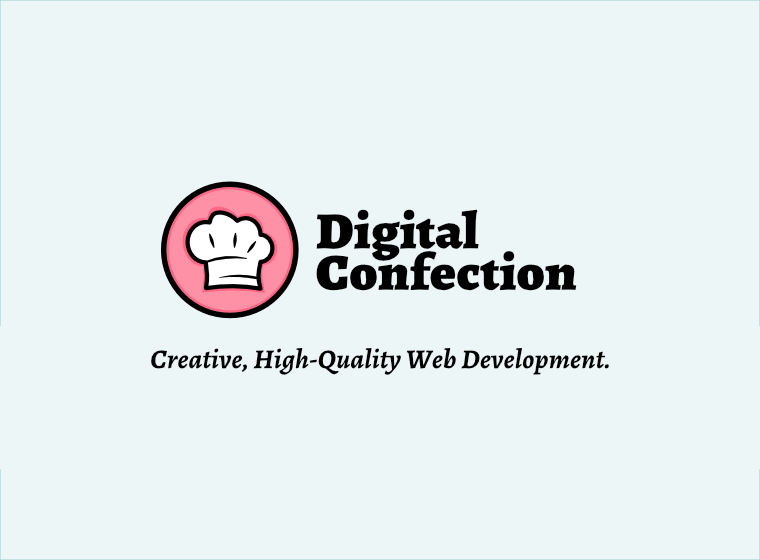
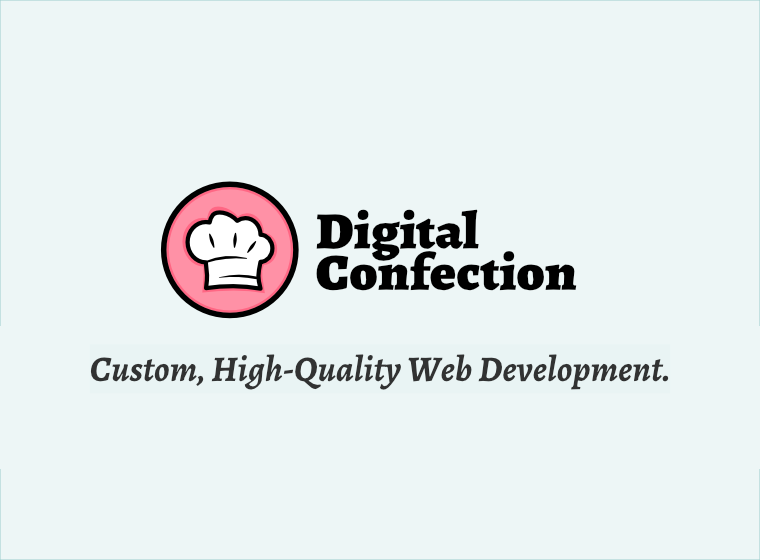
eco-style

Changed region(s): [[0.1211, 0.6071, 0.8776, 0.6982]]

diff --git a/_themes/dc/css/style.css b/_themes/dc/css/style.css
@@ -293,6 +293,22 @@ header .container {
   height: 30rem;
   margin: auto;
 }
+.doodle-me:hover:after {
+  font-family: "Font Awesome 5 Free";
+  font-weight: 400;
+  content: "";
+  position: relative;
+  display: block;
+  height: 40px;
+  width: 40px;
+  line-height: 40px;
+  text-align: center;
+  border-radius: 8px;
+  color: white;
+  margin: auto;
+  top: 18.5rem;
+  background-color: black;
+}
 @media screen and (max-width: 700px) {
   .doodle-me {
     height: 40vh;
@@ -543,7 +559,7 @@ footer .social-links a {
   font-size: large;
   font-weight: bold;
   cursor: pointer;
-  margin-top: -2rem;
+  margin-top: -2.5rem;
   float: right;
   position: relative;
   top: -1.2rem;
@@ -754,7 +770,7 @@ footer .social-links a {
   background-repeat: no-repeat;
   background-position: center;
   background-size: 100%;
-  width: 90%;
+  width: 85%;
   height: 38rem;
   margin: auto;
 }
@@ -796,7 +812,7 @@ footer .social-links a {
 }
 #clients p {
   margin: auto;
-  margin-bottom: 2rem;
+  margin-bottom: 3rem;
 }
 #clients .doodle-scribble {
   margin-top: 3rem;

diff --git a/_themes/dc/scss/style.scss b/_themes/dc/scss/style.scss
@@ -238,6 +238,27 @@ header {
   height: 30rem;
   margin: auto;
 
+  &:hover {
+    &:after {
+      font-family: "Font Awesome 5 Free";
+      font-weight: 400;
+      content: '\f0c1';
+      position: relative;
+      display: block;
+      height: 40px;
+      width: 40px;
+      line-height: 40px;
+      text-align: center;
+      border-radius: 8px;
+      color: white;
+      margin: auto;
+      top: 18.5rem;
+     
+
+      background-color: black;
+    }
+  }
+
   @media screen and (max-width: $bp-small){
     height: 40vh;
     margin-bottom: 2rem;
@@ -501,7 +522,7 @@ footer {
     font-size: large;
     font-weight: bold;
     cursor: pointer;
-    margin-top: -2rem;
+    margin-top: -2.5rem;
     float: right;
     position: relative;
     top: -1.2rem;

diff --git a/_themes/dc/scss/_home.scss b/_themes/dc/scss/_home.scss
@@ -116,7 +116,7 @@
 
 .doodle-cookies {
   @include image_block('../img/eco-cookie.svg');
-  width: 90%;
+  width: 85%;
   height: 38rem;
   margin: auto;
   @media screen and (max-width: 960px){
@@ -155,7 +155,7 @@
 
   p {
     margin: auto;
-    margin-bottom: 2rem;
+    margin-bottom: 3rem;
   }
 
   .doodle-scribble {

diff --git a/_themes/dc/templates/page--front.tpl.php b/_themes/dc/templates/page--front.tpl.php
@@ -3,7 +3,7 @@
     <div class="two-col">
       <div>
         <h1><span class="subtitle">Custom,</span> <span class="lb">High-Quality</span> Web Development.</h1>
-        <p>Digital Confection is a web development studio that specialize in building custom, elegant, high-quality websites. From exceptional customer services, timely assistance, and creative thinking, we help customers succeed efficiently and effectively.</p>
+        <p>Digital Confection specializes in building custom, elegant, high-quality websites. From exceptional customer services, timely assistance, and creative thinking, we help customers succeed efficiently and effectively.</p>
         <br>
         <a href="mailto:hello@digitalconfection.com?Subject=Hello%20From%20Website" class="button">Lets Connect</a>
       </div>
@@ -89,11 +89,11 @@
     <!-- <h2 class="arrow-text"><span class="alt">Impact</span></h2> -->
     <div class="two-col">
       <div>
-        <h3><span class="subtitle">Embracing</span> Eco-Friendly Development.</h3>
+        <h3><span class="subtitle">Practicing</span> Eco-Friendly Development.</h3>
         <p>We take pride in our environmentally conscious web development approach. The web consumes a lot of energy, and much of it comes from un-clean sources. To help minimize our carbon footprint, here is what we do:</p>
         <ul>
           <li>Leverage a green energy hosting provider when possible</li>
-          <li>Reduce energy consumption by keeping page size small and load times fast</li>
+          <li>Reduce energy consumption by keeping our code lean yet powerful</li>
           <li>Embrace simple designs that maximize functionality and minimize redundancy</li>
         </ul>
       </div>
